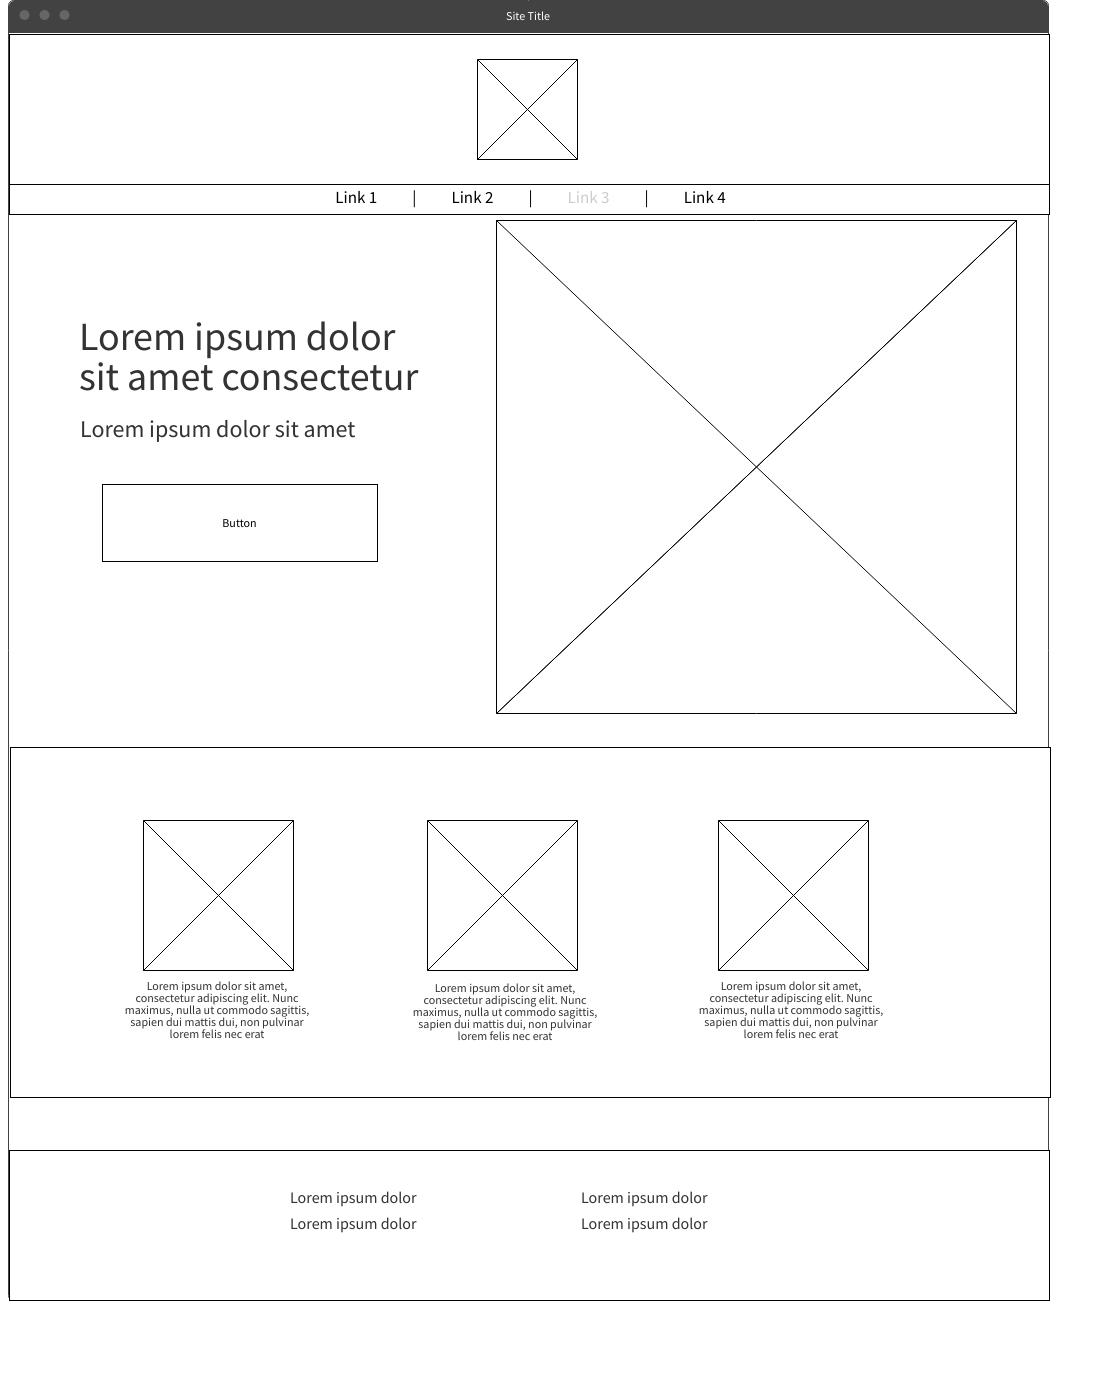
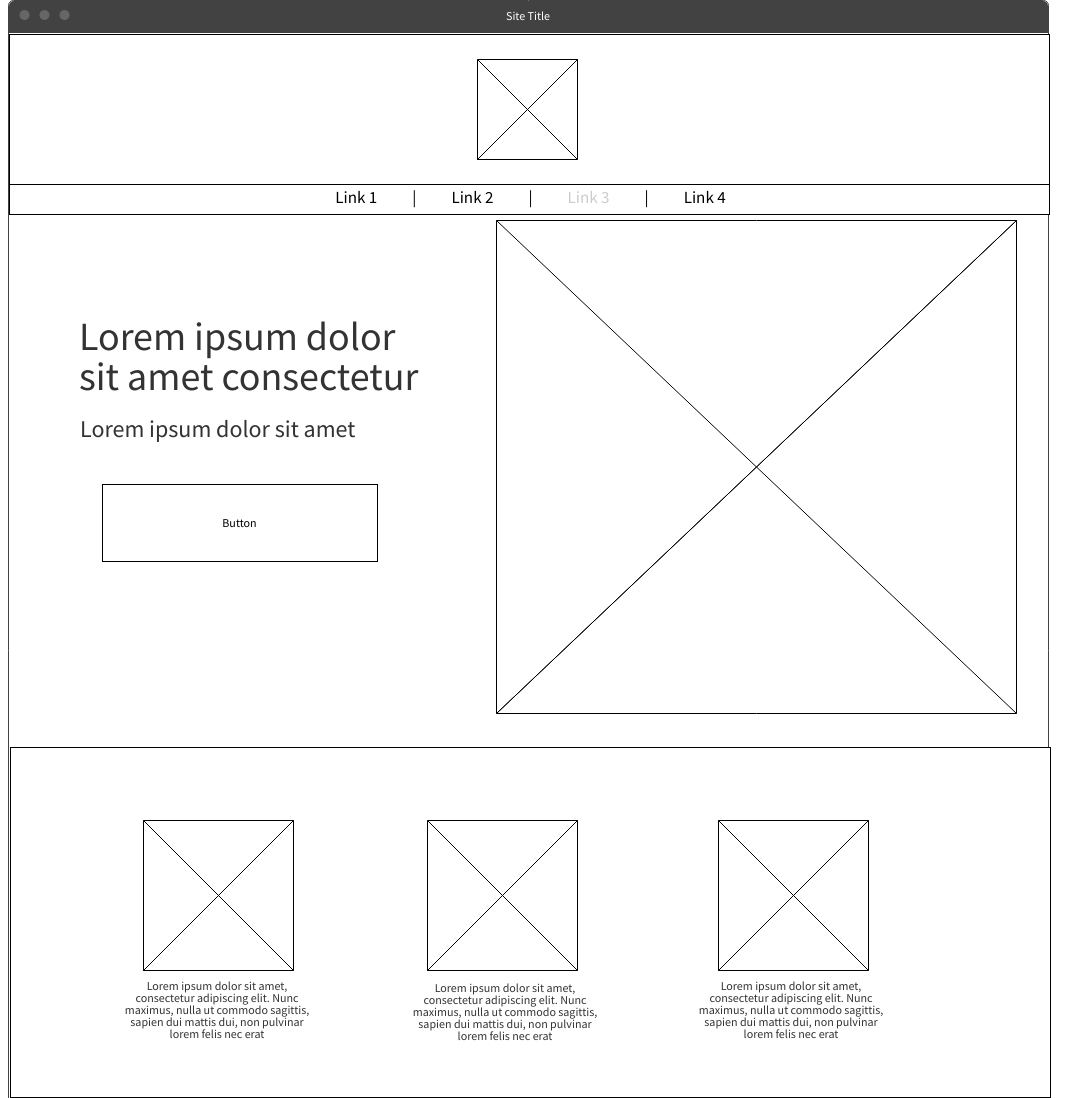
Preparos e estruturação landing page

diff --git a/Espaço Ela/landing.html b/Espaço Ela/landing.html
@@ -5,8 +5,94 @@
     <meta http-equiv="X-UA-Compatible" content="IE=edge">
     <meta name="viewport" content="width=device-width, initial-scale=1.0">
     <title>Espaço Ela</title>
+    <link rel="stylesheet" href="style.css">
+    <link rel="shortcut icon" href="images/favicon.ico" type="image/x-icon">
 </head>
 <body>
+    <header>
+        <picture>
+            <img src="images/logo_ela100.png" alt="Logo Espaço Ella">
+        </picture>
+        <nav>
+            <ul>
+                <li><a href="#">Sobre nós</a></li>
+                <li><a href="#">Serviços</a></li>
+            </ul>
+        </nav>
+    </header>
+
+    <section>
+        <p>
+            <h1>Sem pelos, sem preocupação.</h1>
+            <h2>Invista em você!</h2>
+        </p>
+        <a href="#"><button>Agende agora um horário</button></a>
+        <picture>
+            <img src="images/foto_2_450_sfundo.png" alt="Foto 1 - Mulher com axilas depiladas">
+            <figcaption>
+                
+            </figcaption>
+        </picture>
+    </section>
     
+    <aside>
+        <picture>
+            <img src="images/foto_3.jpg" alt="Foto 2 - depilação com cera">
+            <figcaption>
+                
+            </figcaption>
+            <p>
+
+            </p>
+        </picture>
+        <picture>
+            <img src="images/foto_4.jpg" alt="Foto 3 - design sombrancelha">
+            <figcaption>
+                
+            </figcaption>
+            <p>
+
+            </p>
+        </picture>
+        <picture>
+            <img src="images/foto_5.jpg" alt="Foto 4 - cuidados com a pele">
+            <figcaption>
+                
+            </figcaption>
+            <p>
+
+            </p>
+        </picture>
+    </aside>
+
+    <footer>
+        <ul>
+            <li>
+                Foto 1 - <a href="https://www.freepik.com/free-photo/relaxed-curly-haired-
+                fitmess-woman-feels-satisfied-after-sports-training-wears-cropped
+                -top-keeps-arms-raised-up-closes-eyes-smiles-gladfully-isolated-
+                brown-background-has-pleasant-dreams_27399292.htm#&position=3&from_view=user">
+                Image by wayhomestudio</a> on Freepik
+            </li>
+            <li>
+                Foto 2 - <a href="https://www.freepik.com/free-photo/beautiful-
+                young-girl-beauty-salon_4552226.htm#&position=2&from_view=user">
+                Image by prostooleh</a> on Freepik
+            </li>
+            <li>
+                Foto 3 - Image by <a href="https://www.freepik.com/free-photo/
+                young-woman-going-through-microblading-procedure_20553811.
+                htm#&position=1&from_view=user">Freepik</a>
+            </li>
+            <li>
+                Foto 4 - <a href="https://www.freepik.com/free-photo/beautiful-refreshed
+                -cheerful-woman-with-nourishing-clay-mask-looks-happily-aside-being-treated
+                -by-cream-sponges-makeup-brush_13299881.htm#&position=0&from_view=user">
+                Image by wayhomestudio</a> on Freepik
+            </li>
+        </ul>
+        <p>by <a href="https://github.com/willianhts">Willianhts</a></p>
+    </footer>
+
 </body>
 </html>

diff --git a/Espaço Ela/style.css b/Espaço Ela/style.css
@@ -1,0 +1,13 @@
+@charset "utf-8";
+
+:root {
+    --cor1: #7A6C51;
+    --cor2: #ABC7B8;
+    --cor3: #C8B798;
+    --cor4: #AE83C7;
+    --cor5: #6D577A;
+}
+
+* {
+    margin: 0px;
+}
